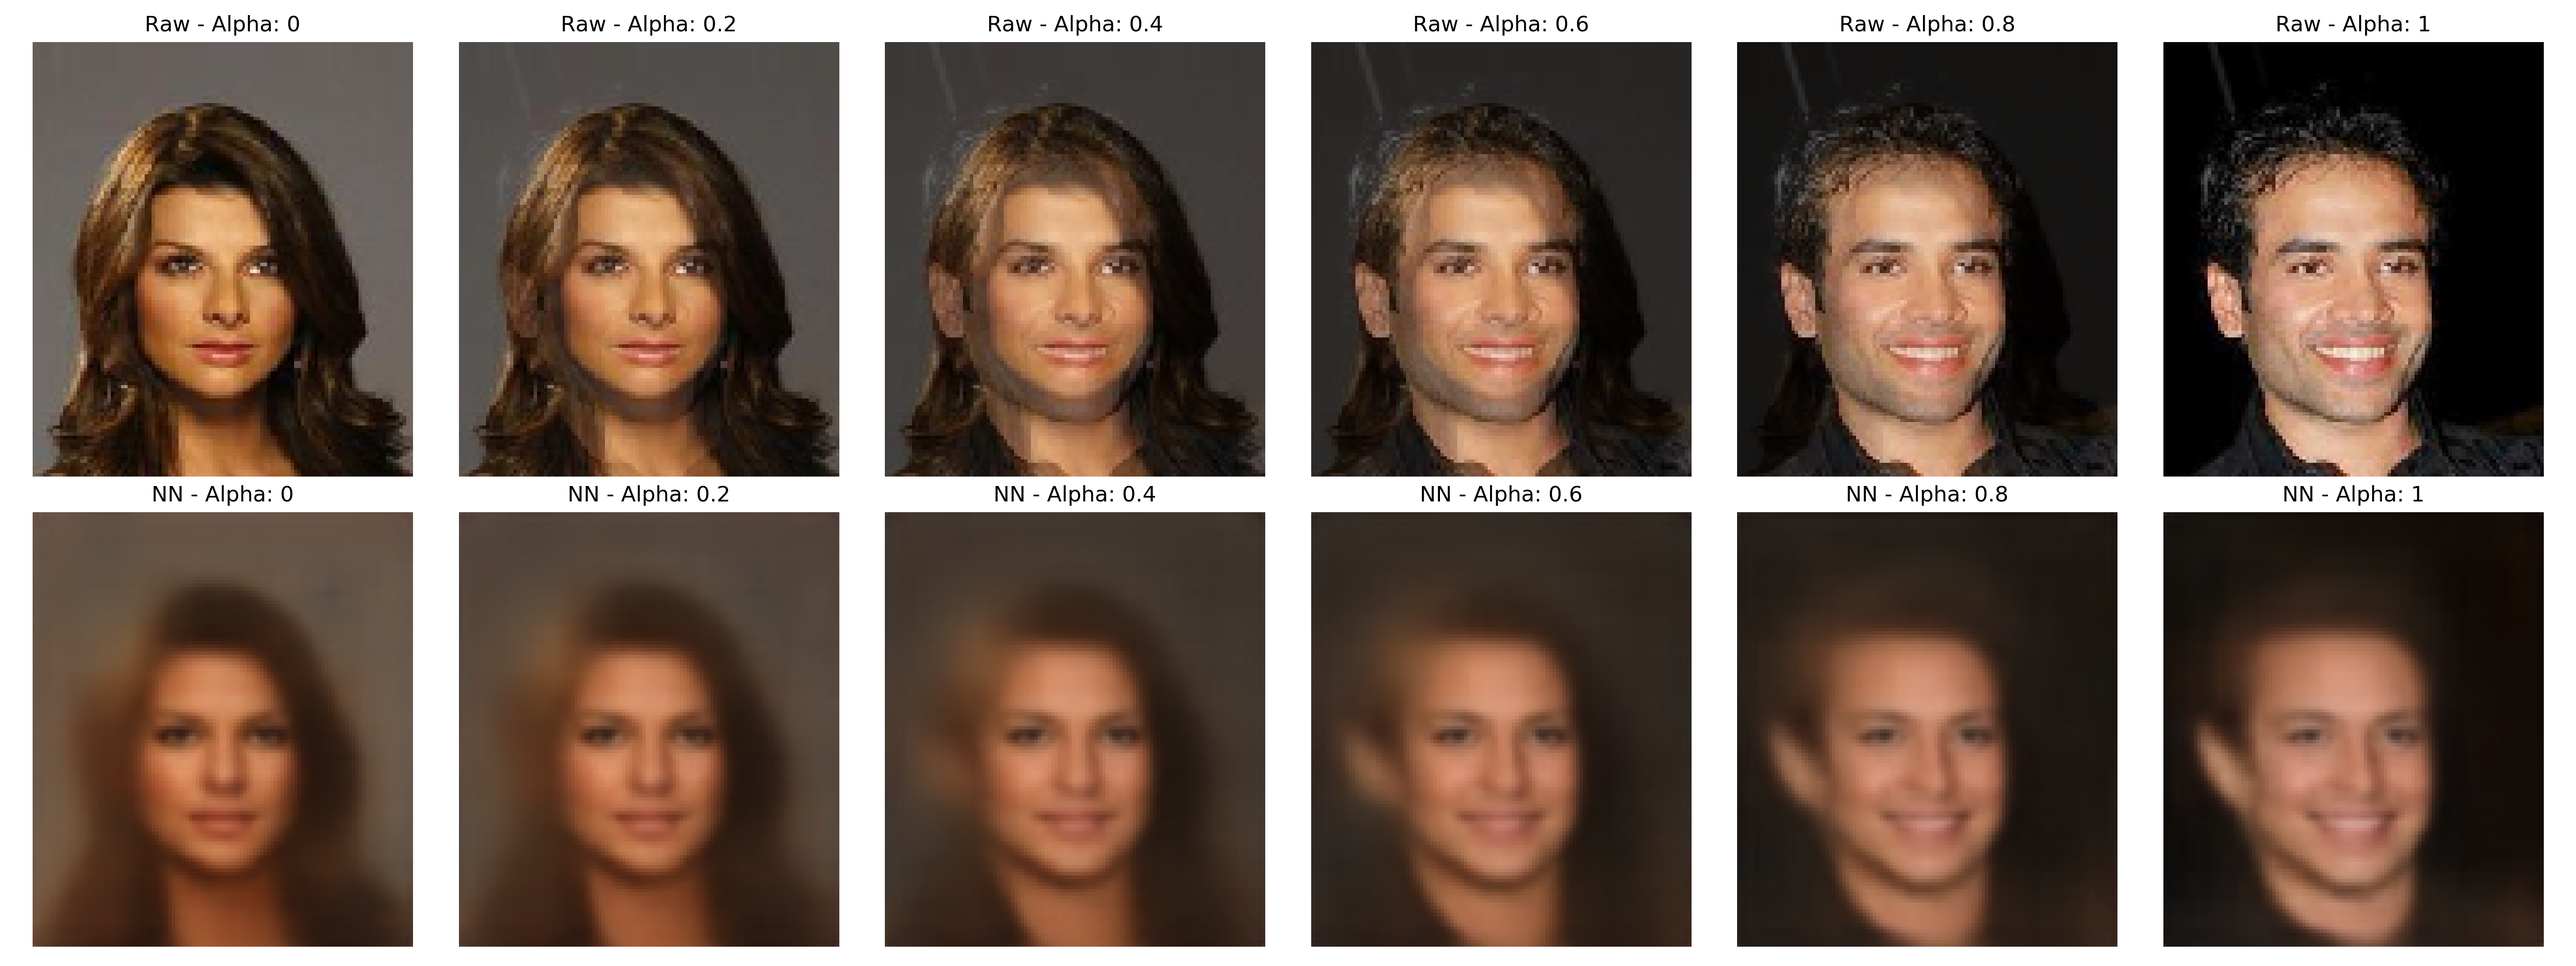
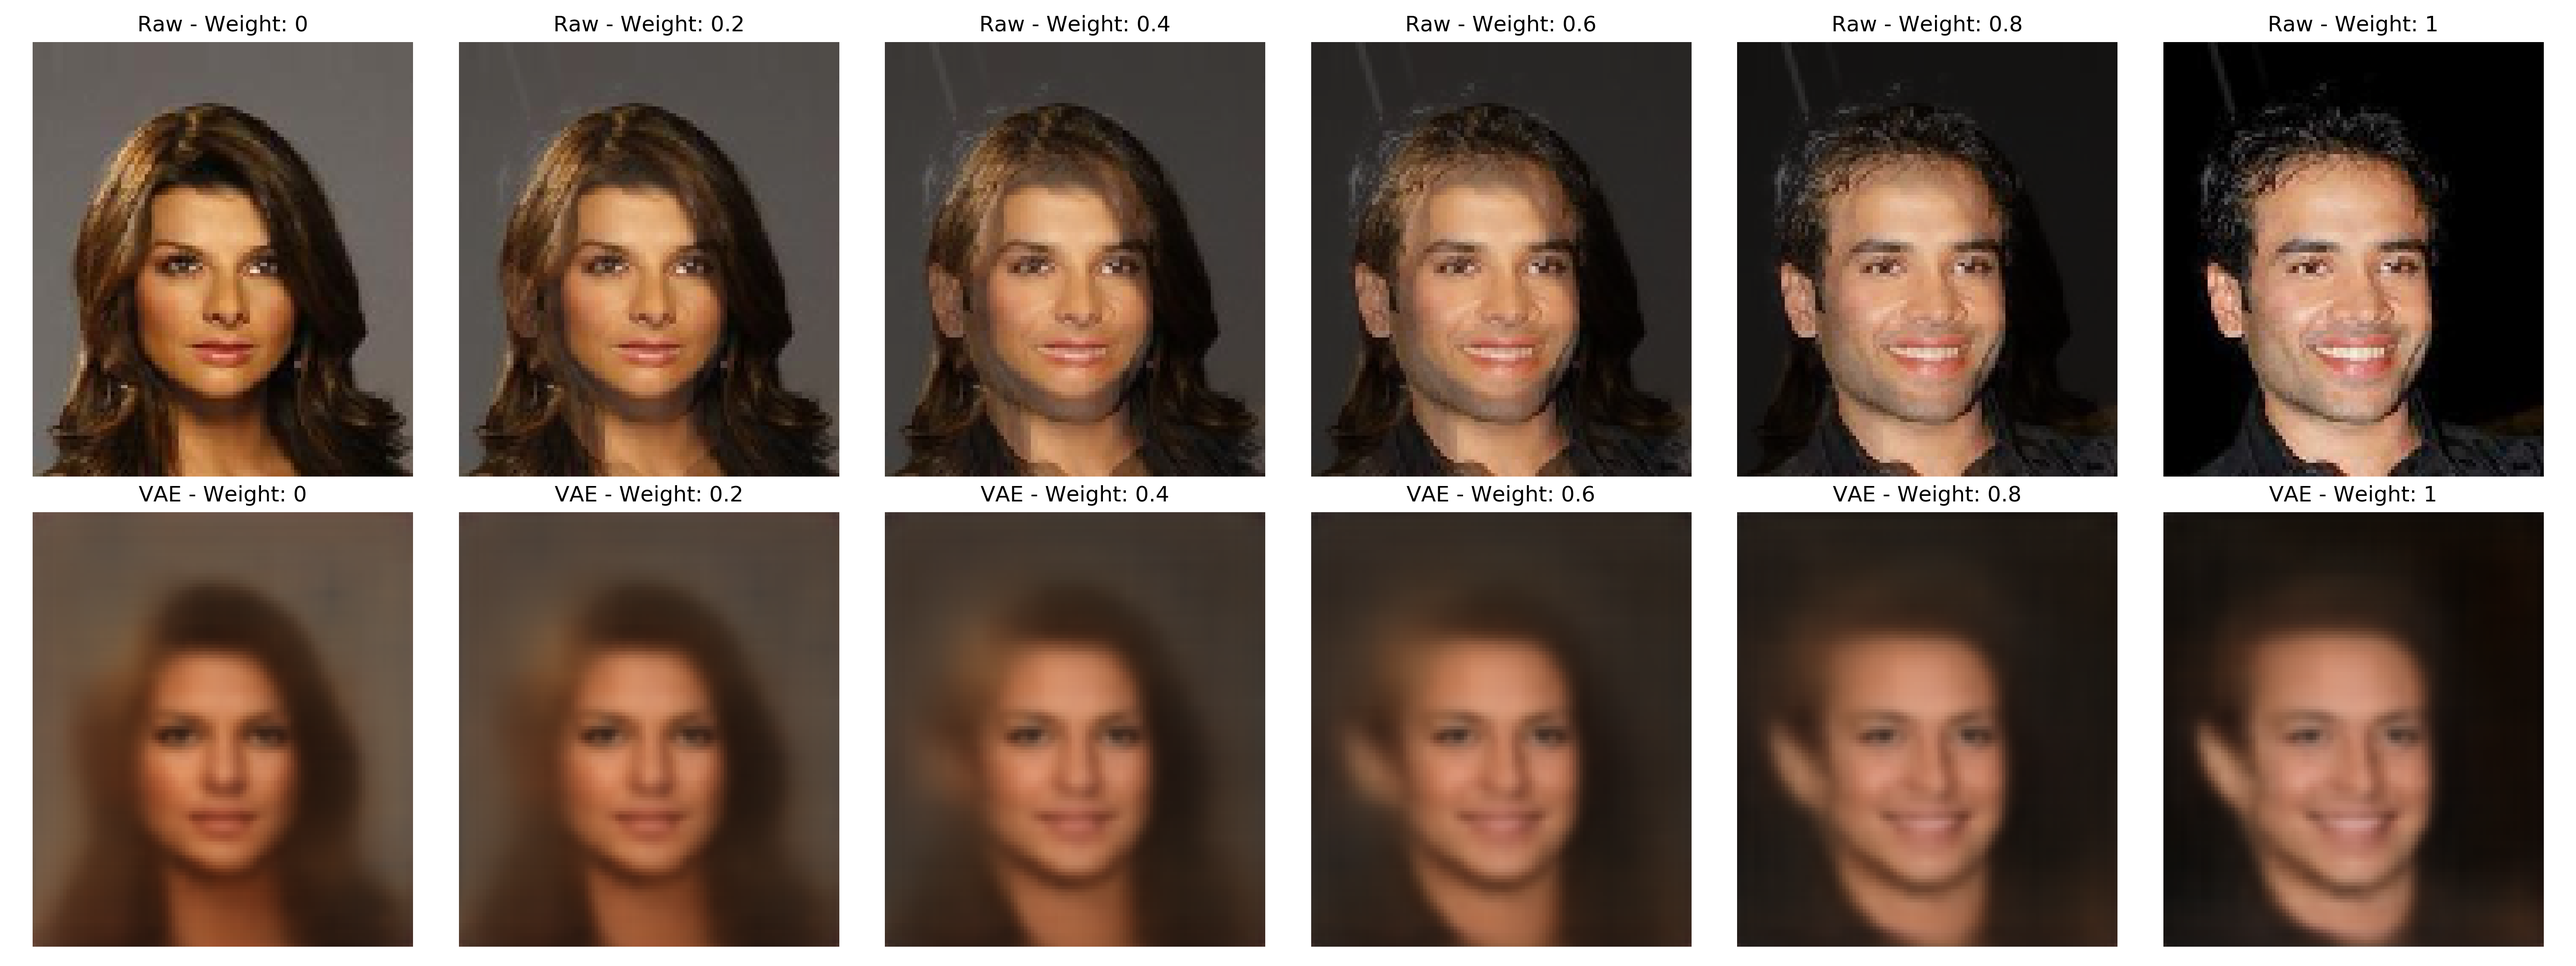
minor

diff --git a/interpolate.py b/interpolate.py
@@ -95,7 +95,7 @@ axes[0, 2].set_title('Raw interpolation')
 axes[0, 2].axis('off')
 
 axes[1, 2].imshow(np.transpose(nn_interp, [1, 2, 0]))
-axes[1, 2].set_title('NN interpolation')
+axes[1, 2].set_title('VAE interpolation')
 axes[1, 2].axis('off')
 # plt.show()
 plt.tight_layout()
@@ -113,10 +113,10 @@ for i, alpha in enumerate(alphas):
     nn_interp = out_mean.detach().squeeze(0).to(cpu).numpy()
 
     axes[0, i].imshow(np.transpose(raw_interp, [1, 2, 0]))
-    axes[0, i].set_title('Raw - Alpha: ' + str(alpha))
+    axes[0, i].set_title('Raw - Weight: ' + str(alpha))
     axes[0, i].axis('off')
     axes[1, i].imshow(np.transpose(nn_interp, [1, 2, 0]))
-    axes[1, i].set_title('NN - Alpha: ' + str(alpha))
+    axes[1, i].set_title('VAE - Weight: ' + str(alpha))
     axes[1, i].axis('off')
 plt.tight_layout()
 plt.savefig('media/out_interp2.png', dpi=300)
